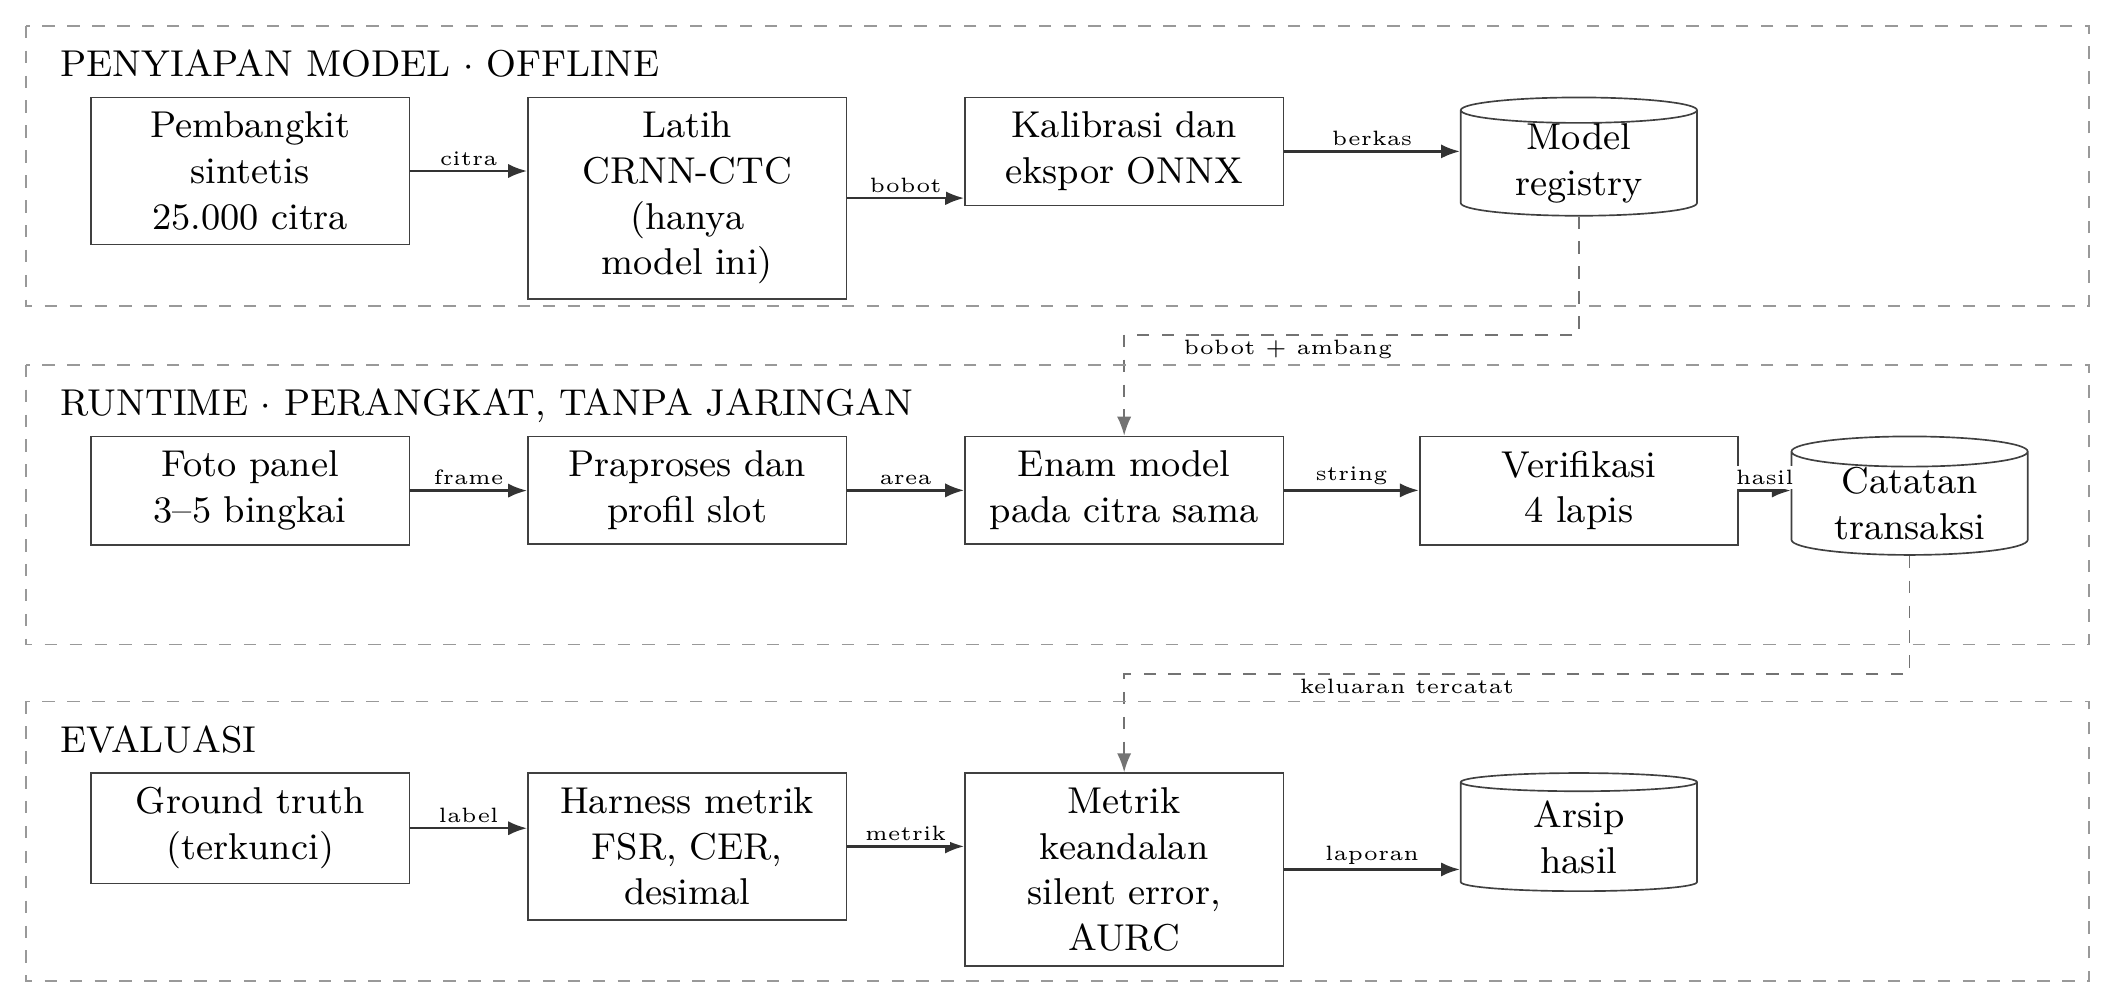
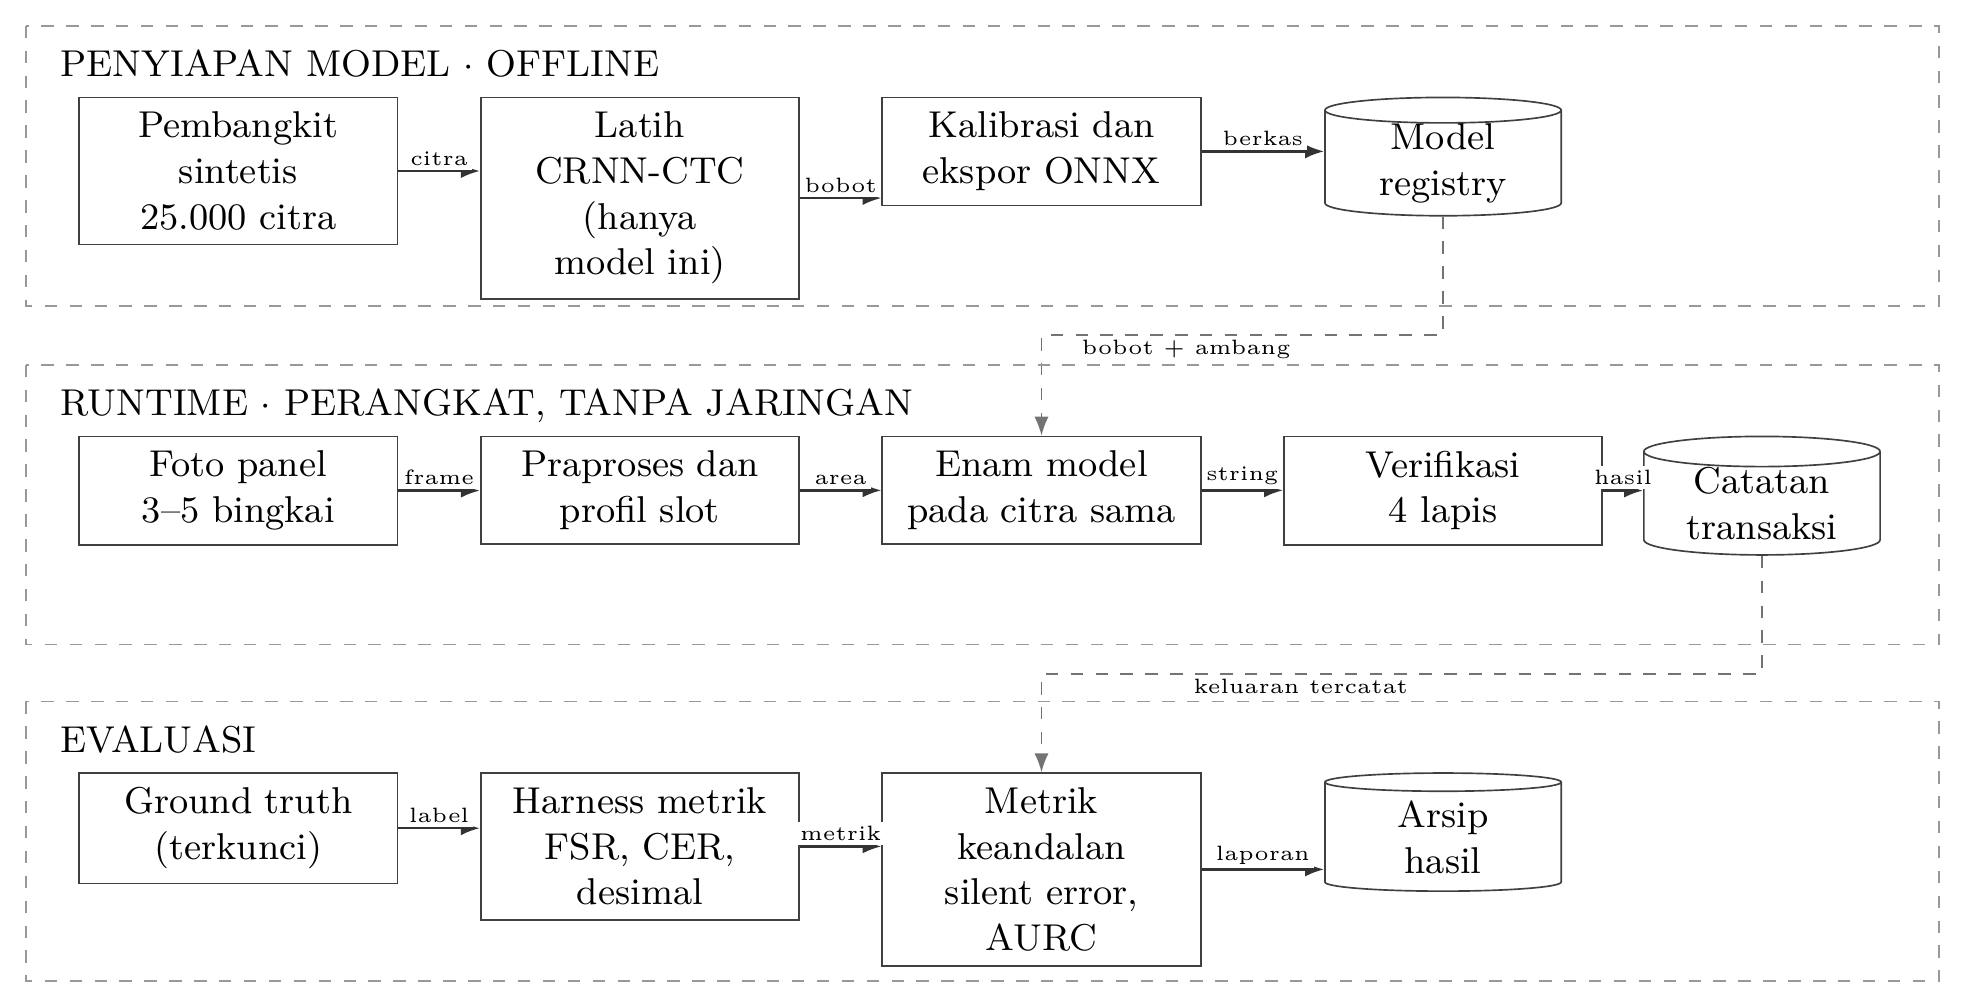
outline: rapikan tabel jalur dan padatkan bagan

diff --git a/outline-model/gambar/alur-jalur-baru.tex b/outline-model/gambar/alur-jalur-baru.tex
@@ -23,21 +23,21 @@
 ]
 
 % ===================== JALUR 1 =====================
-\node[kotak, anchor=north] (gen)  at (2.05,0.72) {Pembangkit sintetis\\ 25.000 citra};
-\node[kotak, anchor=north] (latih)at (5.75,0.72) {Latih CRNN-CTC\\ (hanya model ini)};
-\node[kotak, anchor=north] (eksp) at (9.45,0.72) {Kalibrasi dan\\ ekspor ONNX};
-\node[simpan, anchor=north] (reg) at (13.30,0.72) {Model\\ registry};
+\node[kotak, anchor=north] (gen)  at (1.95,0.72) {Pembangkit sintetis\\ 25.000 citra};
+\node[kotak, anchor=north] (latih)at (5.35,0.72) {Latih CRNN-CTC\\ (hanya model ini)};
+\node[kotak, anchor=north] (eksp) at (8.75,0.72) {Kalibrasi dan\\ ekspor ONNX};
+\node[simpan, anchor=north] (reg) at (12.15,0.72) {Model\\ registry};
 
 \draw[panah] (gen.east)   -- node[lbl, above] {citra}  (latih.west |- gen.east);
 \draw[panah] (latih.east) -- node[lbl, above] {bobot}  (eksp.west |- latih.east);
 \draw[panah] (eksp.east)  -- node[lbl, above] {berkas} (reg.west |- eksp.east);
 
 % ===================== JALUR 2 =====================
-\node[kotak, anchor=north] (foto)  at (2.05,-2.15) {Foto panel\\ 3--5 bingkai};
-\node[kotak, anchor=north] (pra)   at (5.75,-2.15) {Praproses dan\\ profil slot};
-\node[kotak, anchor=north] (model) at (9.45,-2.15) {Enam model\\ pada citra sama};
-\node[kotak, anchor=north] (verif) at (13.30,-2.15) {Verifikasi\\ 4 lapis};
-\node[simpan, anchor=north] (catat) at (16.10,-2.15) {Catatan\\ transaksi};
+\node[kotak, anchor=north] (foto)  at (1.95,-2.15) {Foto panel\\ 3--5 bingkai};
+\node[kotak, anchor=north] (pra)   at (5.35,-2.15) {Praproses dan\\ profil slot};
+\node[kotak, anchor=north] (model) at (8.75,-2.15) {Enam model\\ pada citra sama};
+\node[kotak, anchor=north] (verif) at (12.15,-2.15) {Verifikasi\\ 4 lapis};
+\node[simpan, anchor=north] (catat) at (14.85,-2.15) {Catatan\\ transaksi};
 
 \draw[panah] (foto.east)  -- node[lbl, above] {frame} (pra.west |- foto.east);
 \draw[panah] (pra.east)   -- node[lbl, above] {area}  (model.west |- pra.east);
@@ -45,10 +45,10 @@
 \draw[panah] (verif.east) -- node[lbl, above] {hasil} (catat.west |- verif.east);
 
 % ===================== JALUR 3 =====================
-\node[kotak, anchor=north] (gt)   at (2.05,-5.00) {Ground truth\\ (terkunci)};
-\node[kotak, anchor=north] (harn) at (5.75,-5.00) {Harness metrik\\ FSR, CER, desimal};
-\node[kotak, anchor=north] (metr) at (9.45,-5.00) {Metrik keandalan\\ \textit{silent error}, AURC};
-\node[simpan, anchor=north] (arsip) at (13.30,-5.00) {Arsip\\ hasil};
+\node[kotak, anchor=north] (gt)   at (1.95,-5.00) {Ground truth\\ (terkunci)};
+\node[kotak, anchor=north] (harn) at (5.35,-5.00) {Harness metrik\\ FSR, CER, desimal};
+\node[kotak, anchor=north] (metr) at (8.75,-5.00) {Metrik keandalan\\ \textit{silent error}, AURC};
+\node[simpan, anchor=north] (arsip) at (12.15,-5.00) {Arsip\\ hasil};
 
 \draw[panah] (gt.east)   -- node[lbl, above] {label}  (harn.west |- gt.east);
 \draw[panah] (harn.east) -- node[lbl, above] {metrik} (metr.west |- harn.east);
@@ -62,9 +62,9 @@
 
 % ===================== KOTAK JALUR =====================
 \begin{scope}
-  \draw[dashed, draw=black!40] (0.15,1.32) rectangle (17.62,-1.05);
-  \draw[dashed, draw=black!40] (0.15,-1.55) rectangle (17.62,-3.92);
-  \draw[dashed, draw=black!40] (0.15,-4.40) rectangle (17.62,-6.77);
+  \draw[dashed, draw=black!40] (0.15,1.32) rectangle (16.35,-1.05);
+  \draw[dashed, draw=black!40] (0.15,-1.55) rectangle (16.35,-3.92);
+  \draw[dashed, draw=black!40] (0.15,-4.40) rectangle (16.35,-6.77);
 \end{scope}
 
 \node[judul] at (0.32,1.24) {PENYIAPAN MODEL $\cdot$ OFFLINE};

diff --git a/outline-model/main.tex b/outline-model/main.tex
@@ -700,7 +700,7 @@ label sebenarnya saat pembacaan dijalankan.
 \label{fig:alur-model}
 \end{figure}
 
-\section{Lima Tahap dan Alasannya}
+\section{Tiga Jalur dan Alasannya}
 
 \begin{table}[H]
 \caption{Jalur penelitian, masukan, dan keluarannya}
@@ -709,9 +709,9 @@ label sebenarnya saat pembacaan dijalankan.
 \toprule
 \textbf{Jalur} & \textbf{Masukan} & \textbf{Keluaran} & \textbf{Alasan dipisahkan} \\
 \midrule
-Penyiapan model \newline (di luar perangkat) & Data latih sintetis, bobot terbuka, citra untuk kalibrasi & Bobot terkalibrasi dan ambang di \textit{registry} & Berjalan sekali, lama, dan tidak mungkin dilakukan pada perangkat gudang \\
-Runtime \newline (perangkat, tanpa jaringan) & Foto panel dan konteks produk & Keputusan dan catatan transaksi & Harus selesai dalam hitungan detik dan tanpa koneksi \\
-Evaluasi \newline (setelah eksperimen) & Keputusan tercatat dan label sebenarnya & Tabel metrik, kurva \textit{risk--coverage}, laporan & Label tidak boleh terlihat oleh jalur mana pun sebelumnya \parencite{gushima2023automatic} \\
+Penyiapan model (di luar perangkat) & Data latih sintetis, bobot terbuka, citra untuk kalibrasi & Bobot terkalibrasi dan ambang di \textit{registry} & Berjalan sekali, lama, dan tidak mungkin dilakukan pada perangkat gudang \\
+Runtime (perangkat, tanpa jaringan) & Foto panel dan konteks produk & Keputusan dan catatan transaksi & Harus selesai dalam hitungan detik dan tanpa koneksi \\
+Evaluasi (setelah eksperimen) & Keputusan tercatat dan label sebenarnya & Tabel metrik, kurva \textit{risk--coverage}, laporan & Label tidak boleh terlihat oleh jalur mana pun sebelumnya \parencite{gushima2023automatic} \\
 \bottomrule
 \end{tabularx}
 \end{table}
